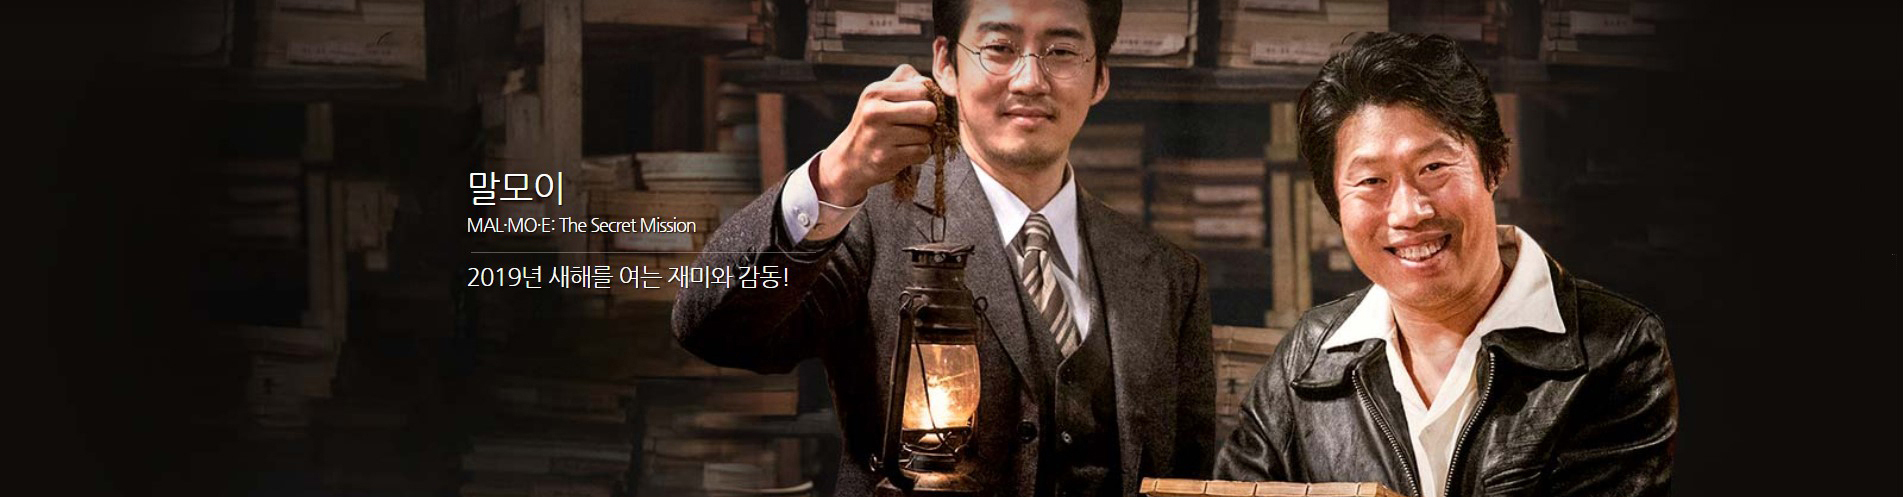
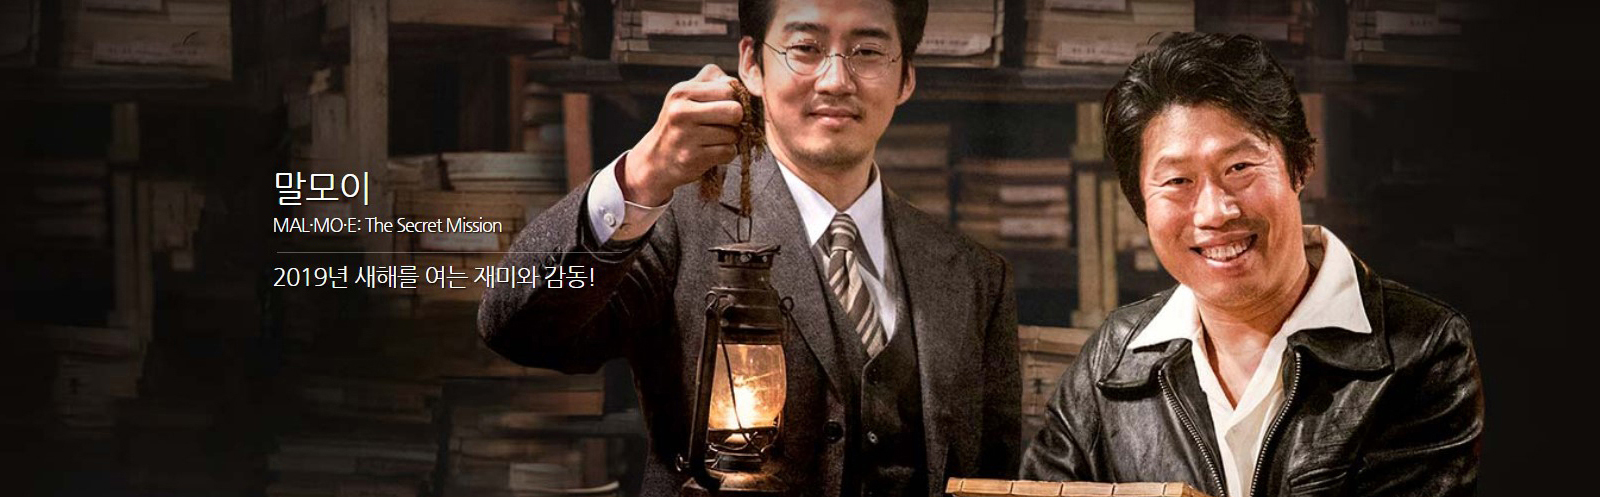
화면사이즈 1600으로 재수정

diff --git a/WebContent/js/slide.js b/WebContent/js/slide.js
@@ -31,7 +31,7 @@ $(document).ready(function(){
      //*> OPTIONAL SETTINGS
     ************************/
     //automatic slider
-    var autoSlider = setInterval(slideRight, 4000);
+    var autoSlider = setInterval(slideRight, 5000);
     
     //for each slide 
     $.each($('#slider-wrap ul li'), function() { 
@@ -51,7 +51,7 @@ $(document).ready(function(){
     //pause automatic slide when hover
     $('#slider-wrap').hover(
       function(){ $(this).addClass('active'); clearInterval(autoSlider); }, 
-      function(){ $(this).removeClass('active'); autoSlider = setInterval(slideRight, 4000); }
+      function(){ $(this).removeClass('active'); autoSlider = setInterval(slideRight, 5000); }
     );
     
     

diff --git a/WebContent/css/movielist.css b/WebContent/css/movielist.css
@@ -1,15 +1,16 @@
 /*section*/
 
-section{
+.moive_wrapper{
     margin: 0 auto; /*가운데정렬*/
-    max-width:1903px;
+    max-width:1600px;
     height: auto;
     font-family: 'Lato', sans-serif;
    /* border : 5px solid red;*/
 }
 
 section .movie_inner{
-    width : 1895px;
+    width : 1600px;
+    margin : 0 auto;
     text-align: center;
   /*  border : 3px solid blue;*/
 }
@@ -81,5 +82,9 @@ section .movie_inner{
 .modal-body{
              background-color: black;  
 }
+
+/* @media{
+	
+} */
 
 

diff --git a/WebContent/css/slide.css b/WebContent/css/slide.css
@@ -15,7 +15,6 @@ a:hover{color:#1bc1a3;}
 #slider-wrap{
     width:1600px;
     height:400px;
-    margin:0 auto;
     position:relative;
     overflow:hidden;
 }
@@ -23,7 +22,6 @@ a:hover{color:#1bc1a3;}
 #slider-wrap ul#slider{
     width:100%;
     height:100%;
-    
     position:absolute;
     top:0;
     left:0;     
